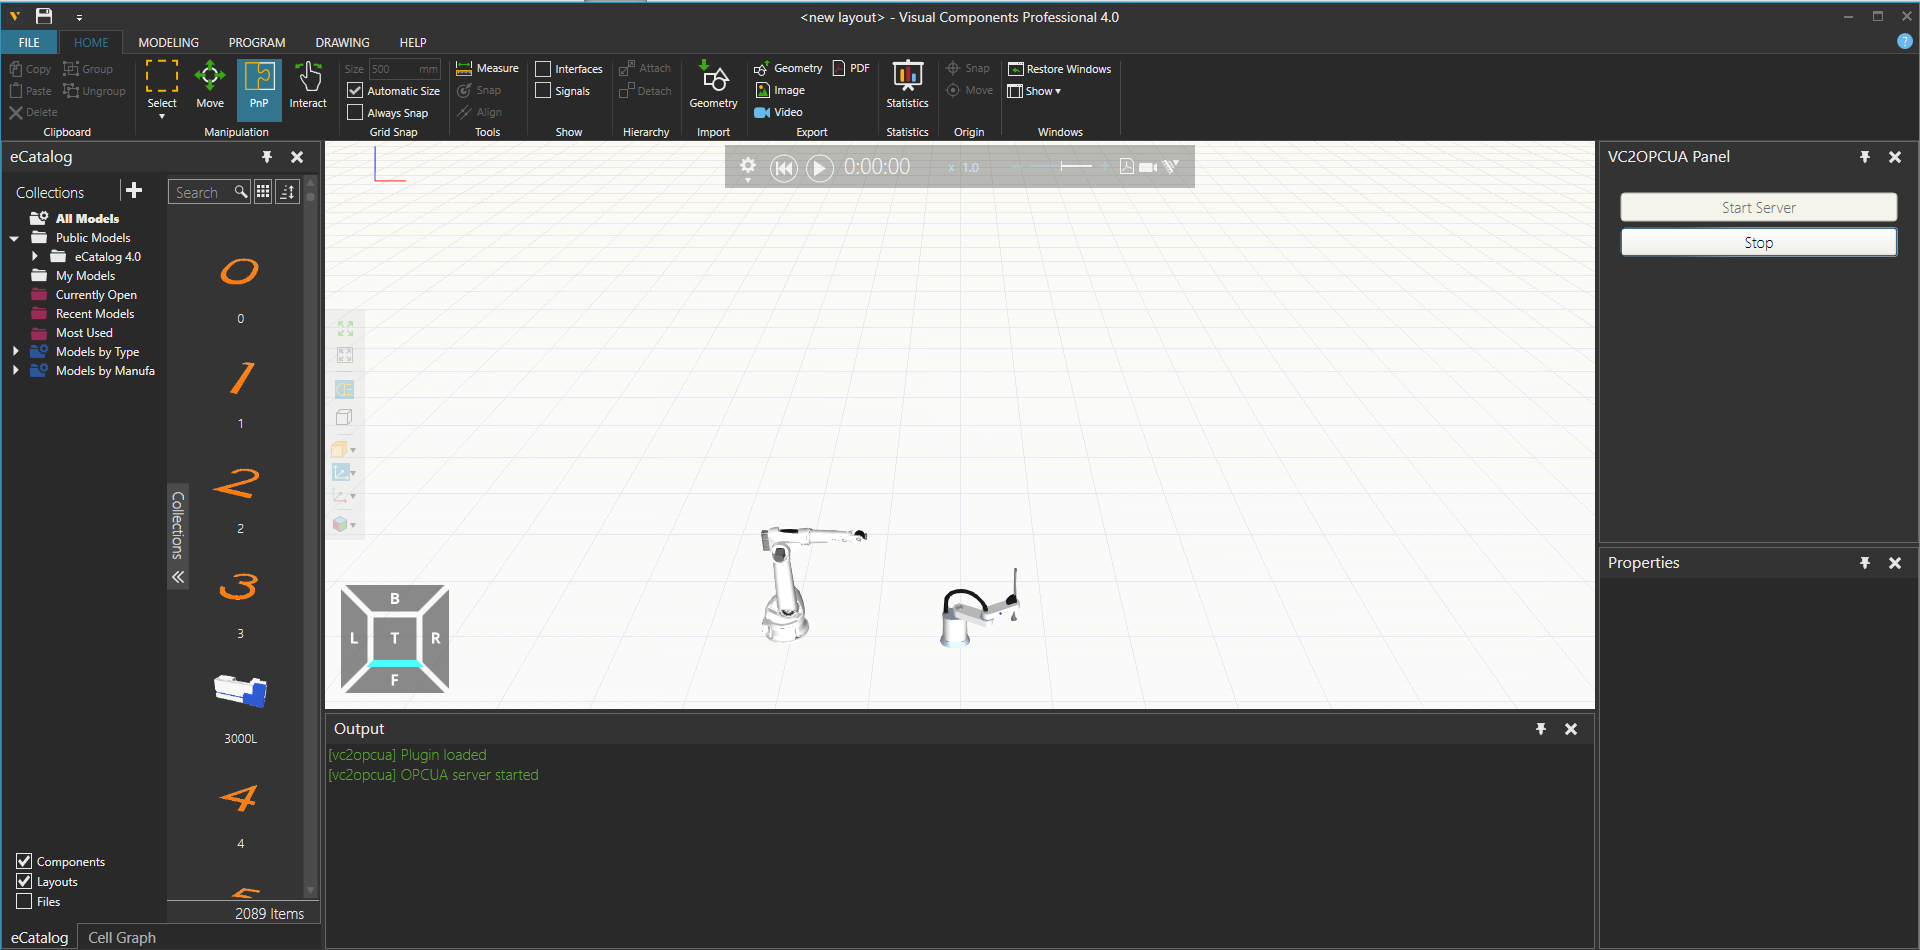
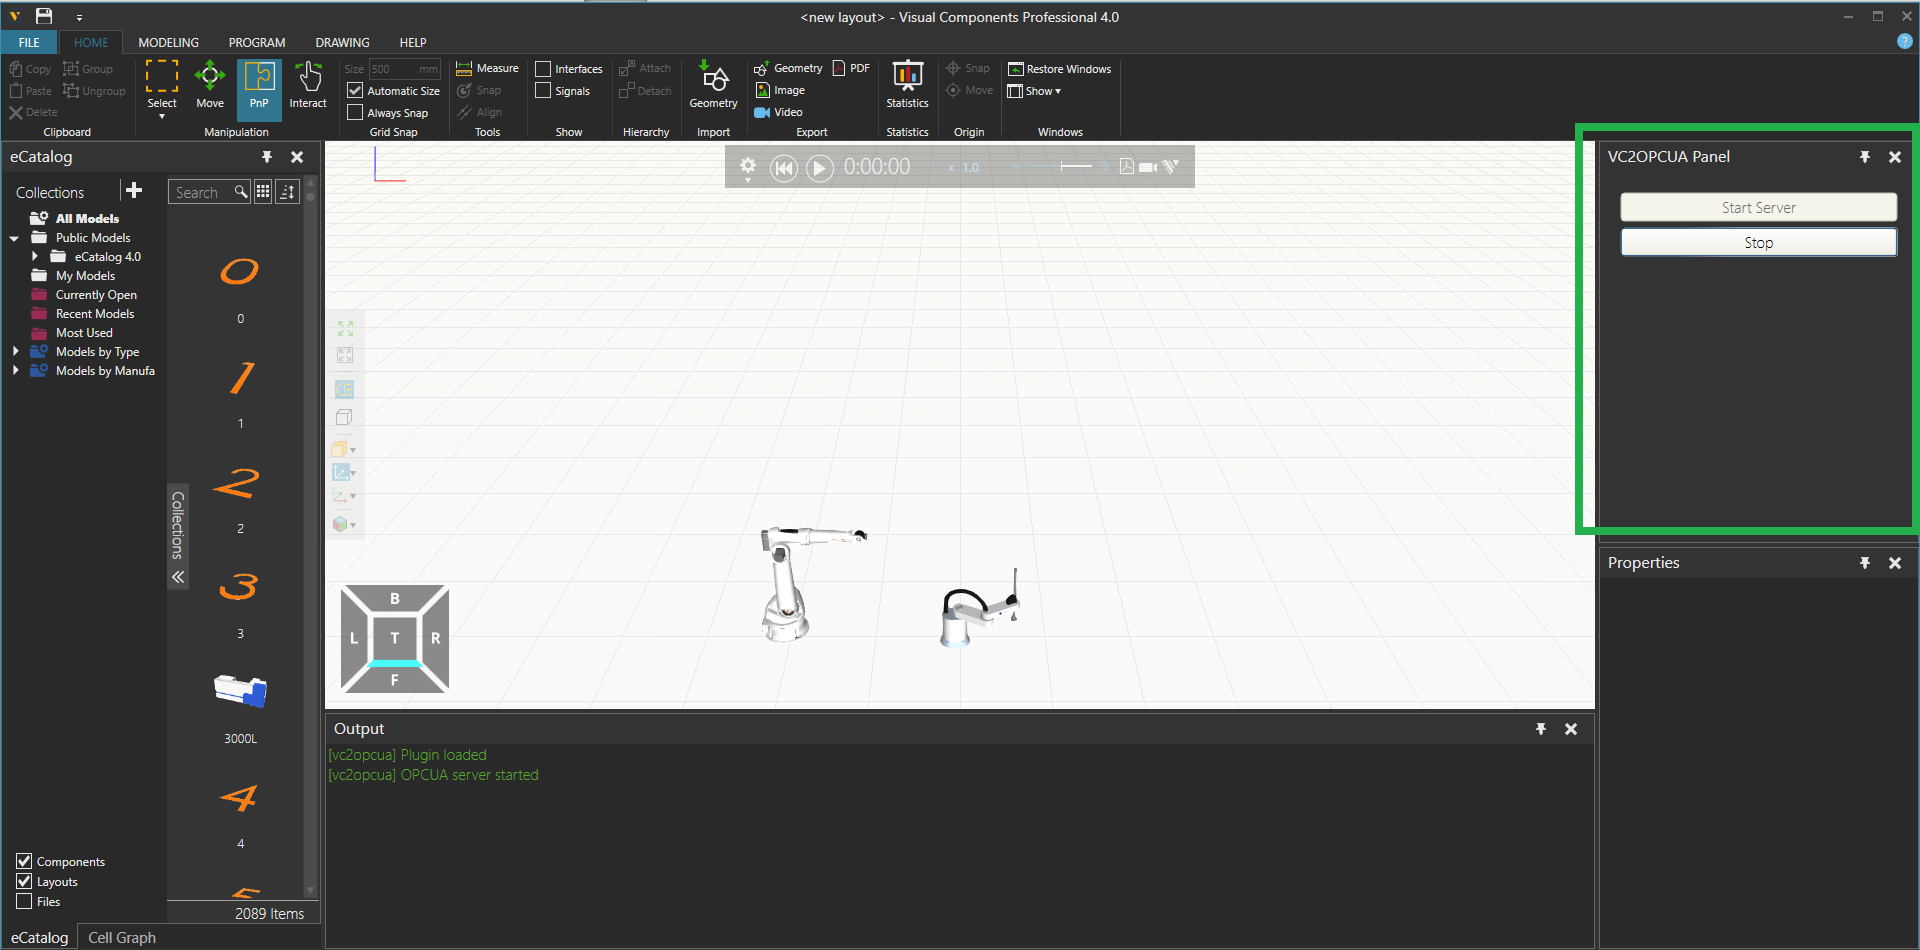
Include license

Changed region(s): [[0.8125, 0.1221, 1.0, 0.58]]

diff --git a/README.md b/README.md
@@ -2,14 +2,23 @@
 
 Visual Components Plugin that creates an [OPC UA](https://opcfoundation.org/about/opc-technologies/opc-ua/) Server exposing your model data.
 
+**Server URI:** <opc.tcp://localhost:51210/UA/Vc2OpcUaServer/>
+
 The server exposes the active components in a Visual Components model, together with their signals and properties.
+
+When installed, a VC2OPCUA Panel will be added to Visual Components main window:
+
 ![Visual Components Screenshot](/screenshots/visual-components.png?raw=true "Visual Components Screenshot")
 
-Node structure:
+**Node structure:**
+
 ![OPCUA Client Screenshot](/screenshots/opcua-client.png?raw=true "OPCUA Client Screenshot")
 
-Server URI: opc.tcp://localhost:51210/UA/Vc2OpcUaServer/
 
-#### Requirements:
+## Requirements:
  - [Visual Components](https://visualcomponents.com/)
- - [OPC UA .NET Stack](https://github.com/OPCFoundation/UA-.NETStandard)
+ - [OPC UA .NET Stack](https://github.com/OPCFoundation/UA-.NETStandard) (only required if you want to compile this plugin yourself)
+
+## License
+
+This project is licensed under the GNU General Public License v2. You should have received a copy of the license along with this software. If not, see <https://opcfoundation.org/license/gpl.html> or <https://www.gnu.org/licenses/old-licenses/gpl-2.0.en.html>
